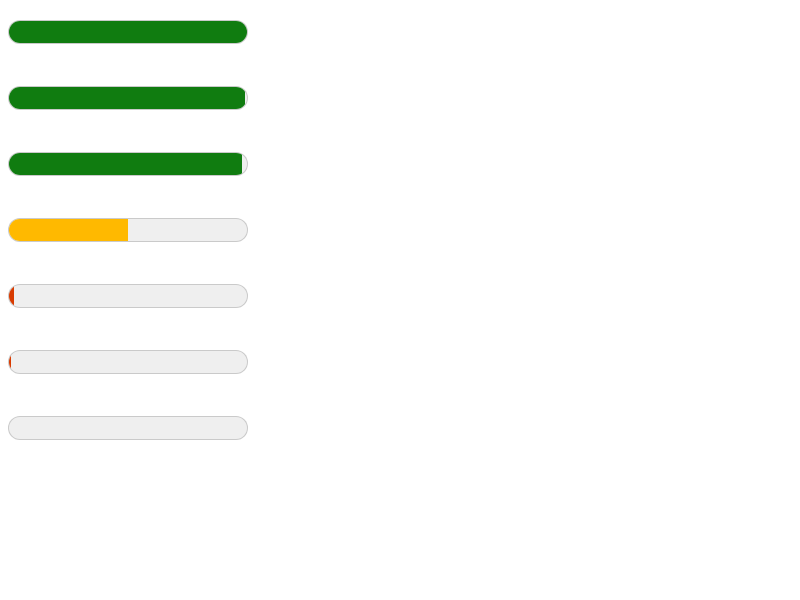
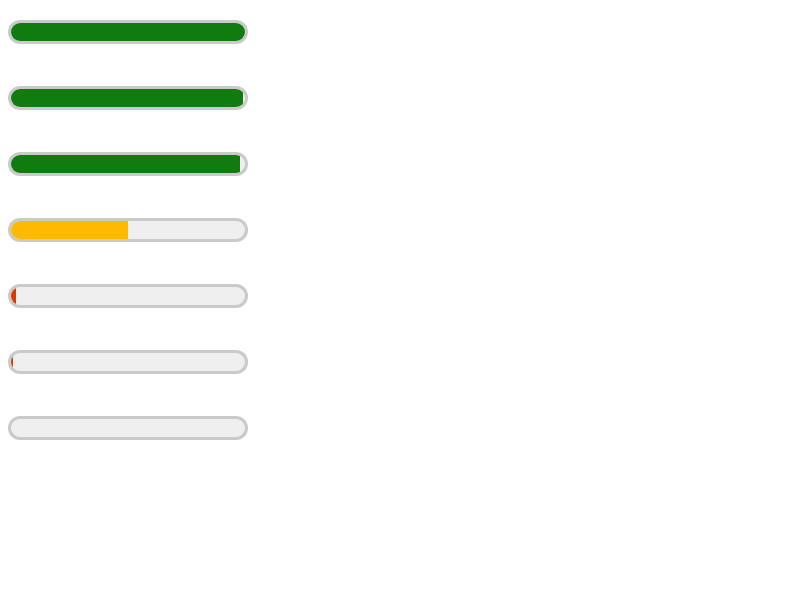
Apply zoom to thin/medium/think border/outline/column-rule.
These values map to a fixed number of CSS pixels, but zoom was not
applied as for other pixel lengths so that the output would not scale
with the zoom level.

Discovered running wpt/css tests with dpr=2.

TEST=external/wpt/css/CSS2/floats-clear/floats-114.xht

Bug: 1078776
Commit-Queue: Rune Lillesveen <futhark@chromium.org>
Cr-Original-Commit-Position: refs/heads/master@{#766308}
Cr-Mirrored-From: https://chromium.googlesource.com/chromium/src
Cr-Mirrored-Commit: 6bba7dec547e429d18fec1288732c00f158bf8b5

diff --git a/blink/renderer/core/css/resolver/style_builder_converter.h b/blink/renderer/core/css/resolver/style_builder_converter.h
@@ -312,26 +312,34 @@ T StyleBuilderConverter::ConvertFlags(StyleResolverState& state,
 template <typename T>
 T StyleBuilderConverter::ConvertLineWidth(StyleResolverState& state,
                                           const CSSValue& value) {
+  double result = 0;
   if (auto* identifier_value = DynamicTo<CSSIdentifierValue>(value)) {
-    CSSValueID value_id = identifier_value->GetValueID();
-    if (value_id == CSSValueID::kThin)
-      return 1;
-    if (value_id == CSSValueID::kMedium)
-      return 3;
-    if (value_id == CSSValueID::kThick)
-      return 5;
-    NOTREACHED();
-    return 0;
+    switch (identifier_value->GetValueID()) {
+      case CSSValueID::kThin:
+        result = 1;
+        break;
+      case CSSValueID::kMedium:
+        result = 3;
+        break;
+      case CSSValueID::kThick:
+        result = 5;
+        break;
+      default:
+        NOTREACHED();
+        break;
+    }
+    result = state.CssToLengthConversionData().ZoomedComputedPixels(
+        result, CSSPrimitiveValue::UnitType::kPixels);
+  } else {
+    result = To<CSSPrimitiveValue>(value).ComputeLength<double>(
+        state.CssToLengthConversionData());
   }
-  const auto& primitive_value = To<CSSPrimitiveValue>(value);
-  // FIXME: We are moving to use the full page zoom implementation to handle
-  // high-dpi.  In that case specyfing a border-width of less than 1px would
-  // result in a border that is one device pixel thick.  With this change that
-  // would instead be rounded up to 2 device pixels.  Consider clamping it to
-  // device pixels or zoom adjusted CSS pixels instead of raw CSS pixels.
-  // Reference crbug.com/485650 and crbug.com/382483
-  double result =
-      primitive_value.ComputeLength<double>(state.CssToLengthConversionData());
+  // TODO(crbug.com/485650, crbug.com/382483): We are moving to use the full
+  // page zoom implementation to handle high-dpi.  In that case specyfing a
+  // border-width of less than 1px would result in a border that is one device
+  // pixel thick.  With this change that would instead be rounded up to 2
+  // device pixels.  Consider clamping it to device pixels or zoom adjusted CSS
+  // pixels instead of raw CSS pixels.
   double zoomed_result = state.StyleRef().EffectiveZoom() * result;
   if (zoomed_result > 0.0 && zoomed_result < 1.0)
     return 1.0;

diff --git a/blink/renderer/core/style/computed_style_test.cc b/blink/renderer/core/style/computed_style_test.cc
@@ -930,4 +930,50 @@ TEST(ComputedStyleTest, InitialAndInheritedAndNonInheritedVariableNames) {
   EXPECT_TRUE(style->GetVariableNames().Contains("--e"));
 }
 
+TEST(ComputedStyleTest, BorderWidthZoom) {
+  std::unique_ptr<DummyPageHolder> dummy_page_holder_ =
+      std::make_unique<DummyPageHolder>(IntSize(0, 0), nullptr);
+
+  const ComputedStyle* initial = &ComputedStyle::InitialStyle();
+
+  StyleResolverState state(dummy_page_holder_->GetDocument(),
+                           *dummy_page_holder_->GetDocument().documentElement(),
+                           initial, initial);
+
+  scoped_refptr<ComputedStyle> style = ComputedStyle::Create();
+  style->SetEffectiveZoom(2);
+  style->SetBorderLeftStyle(EBorderStyle::kSolid);
+  style->SetOutlineStyle(EBorderStyle::kSolid);
+  style->SetColumnRuleStyle(EBorderStyle::kSolid);
+  state.SetStyle(style);
+
+  const struct {
+    CSSIdentifierValue* css_value;
+    double expected_px;
+    STACK_ALLOCATED();
+  } tests[] = {
+      {CSSIdentifierValue::Create(CSSValueID::kThin), 1.0},
+      {CSSIdentifierValue::Create(CSSValueID::kMedium), 3.0},
+      {CSSIdentifierValue::Create(CSSValueID::kThick), 5.0},
+  };
+
+  for (const auto& test : tests) {
+    for (const auto* property :
+         {&GetCSSPropertyBorderLeftWidth(), &GetCSSPropertyOutlineWidth(),
+          &GetCSSPropertyColumnRuleWidth()}) {
+      const Longhand& longhand = To<Longhand>(*property);
+      longhand.ApplyValue(state, *test.css_value);
+      auto* computed_value = longhand.CSSValueFromComputedStyleInternal(
+          *style, style->SvgStyle(), nullptr /* layout_object */,
+          false /* allow_visited_style */);
+      AtomicString prop_name = longhand.GetCSSPropertyName().ToAtomicString();
+      ASSERT_TRUE(computed_value) << prop_name;
+      auto* numeric_value = DynamicTo<CSSNumericLiteralValue>(computed_value);
+      ASSERT_TRUE(numeric_value) << prop_name;
+      EXPECT_TRUE(numeric_value->IsPx()) << prop_name;
+      EXPECT_EQ(test.expected_px, numeric_value->DoubleValue()) << prop_name;
+    }
+  }
+}
+
 }  // namespace blink

diff --git a/blink/renderer/core/css/resolver/style_builder_converter.cc b/blink/renderer/core/css/resolver/style_builder_converter.cc
@@ -962,20 +962,29 @@ void StyleBuilderConverter::CreateImplicitNamedGridLinesFromGridArea(
 
 float StyleBuilderConverter::ConvertBorderWidth(StyleResolverState& state,
                                                 const CSSValue& value) {
+  double result = 0;
   if (auto* identifier_value = DynamicTo<CSSIdentifierValue>(value)) {
-    CSSValueID value_id = identifier_value->GetValueID();
-    if (value_id == CSSValueID::kThin)
-      return 1;
-    if (value_id == CSSValueID::kMedium)
-      return 3;
-    if (value_id == CSSValueID::kThick)
-      return 5;
-    NOTREACHED();
-    return 0;
+    switch (identifier_value->GetValueID()) {
+      case CSSValueID::kThin:
+        result = 1;
+        break;
+      case CSSValueID::kMedium:
+        result = 3;
+        break;
+      case CSSValueID::kThick:
+        result = 5;
+        break;
+      default:
+        NOTREACHED();
+        break;
+    }
+    result = state.CssToLengthConversionData().ZoomedComputedPixels(
+        result, CSSPrimitiveValue::UnitType::kPixels);
+  } else {
+    const auto& primitive_value = To<CSSPrimitiveValue>(value);
+    result =
+        primitive_value.ComputeLength<float>(state.CssToLengthConversionData());
   }
-  const auto& primitive_value = To<CSSPrimitiveValue>(value);
-  double result =
-      primitive_value.ComputeLength<float>(state.CssToLengthConversionData());
   double zoomed_result = state.StyleRef().EffectiveZoom() * result;
   if (zoomed_result > 0.0 && zoomed_result < 1.0)
     return 1.0;
